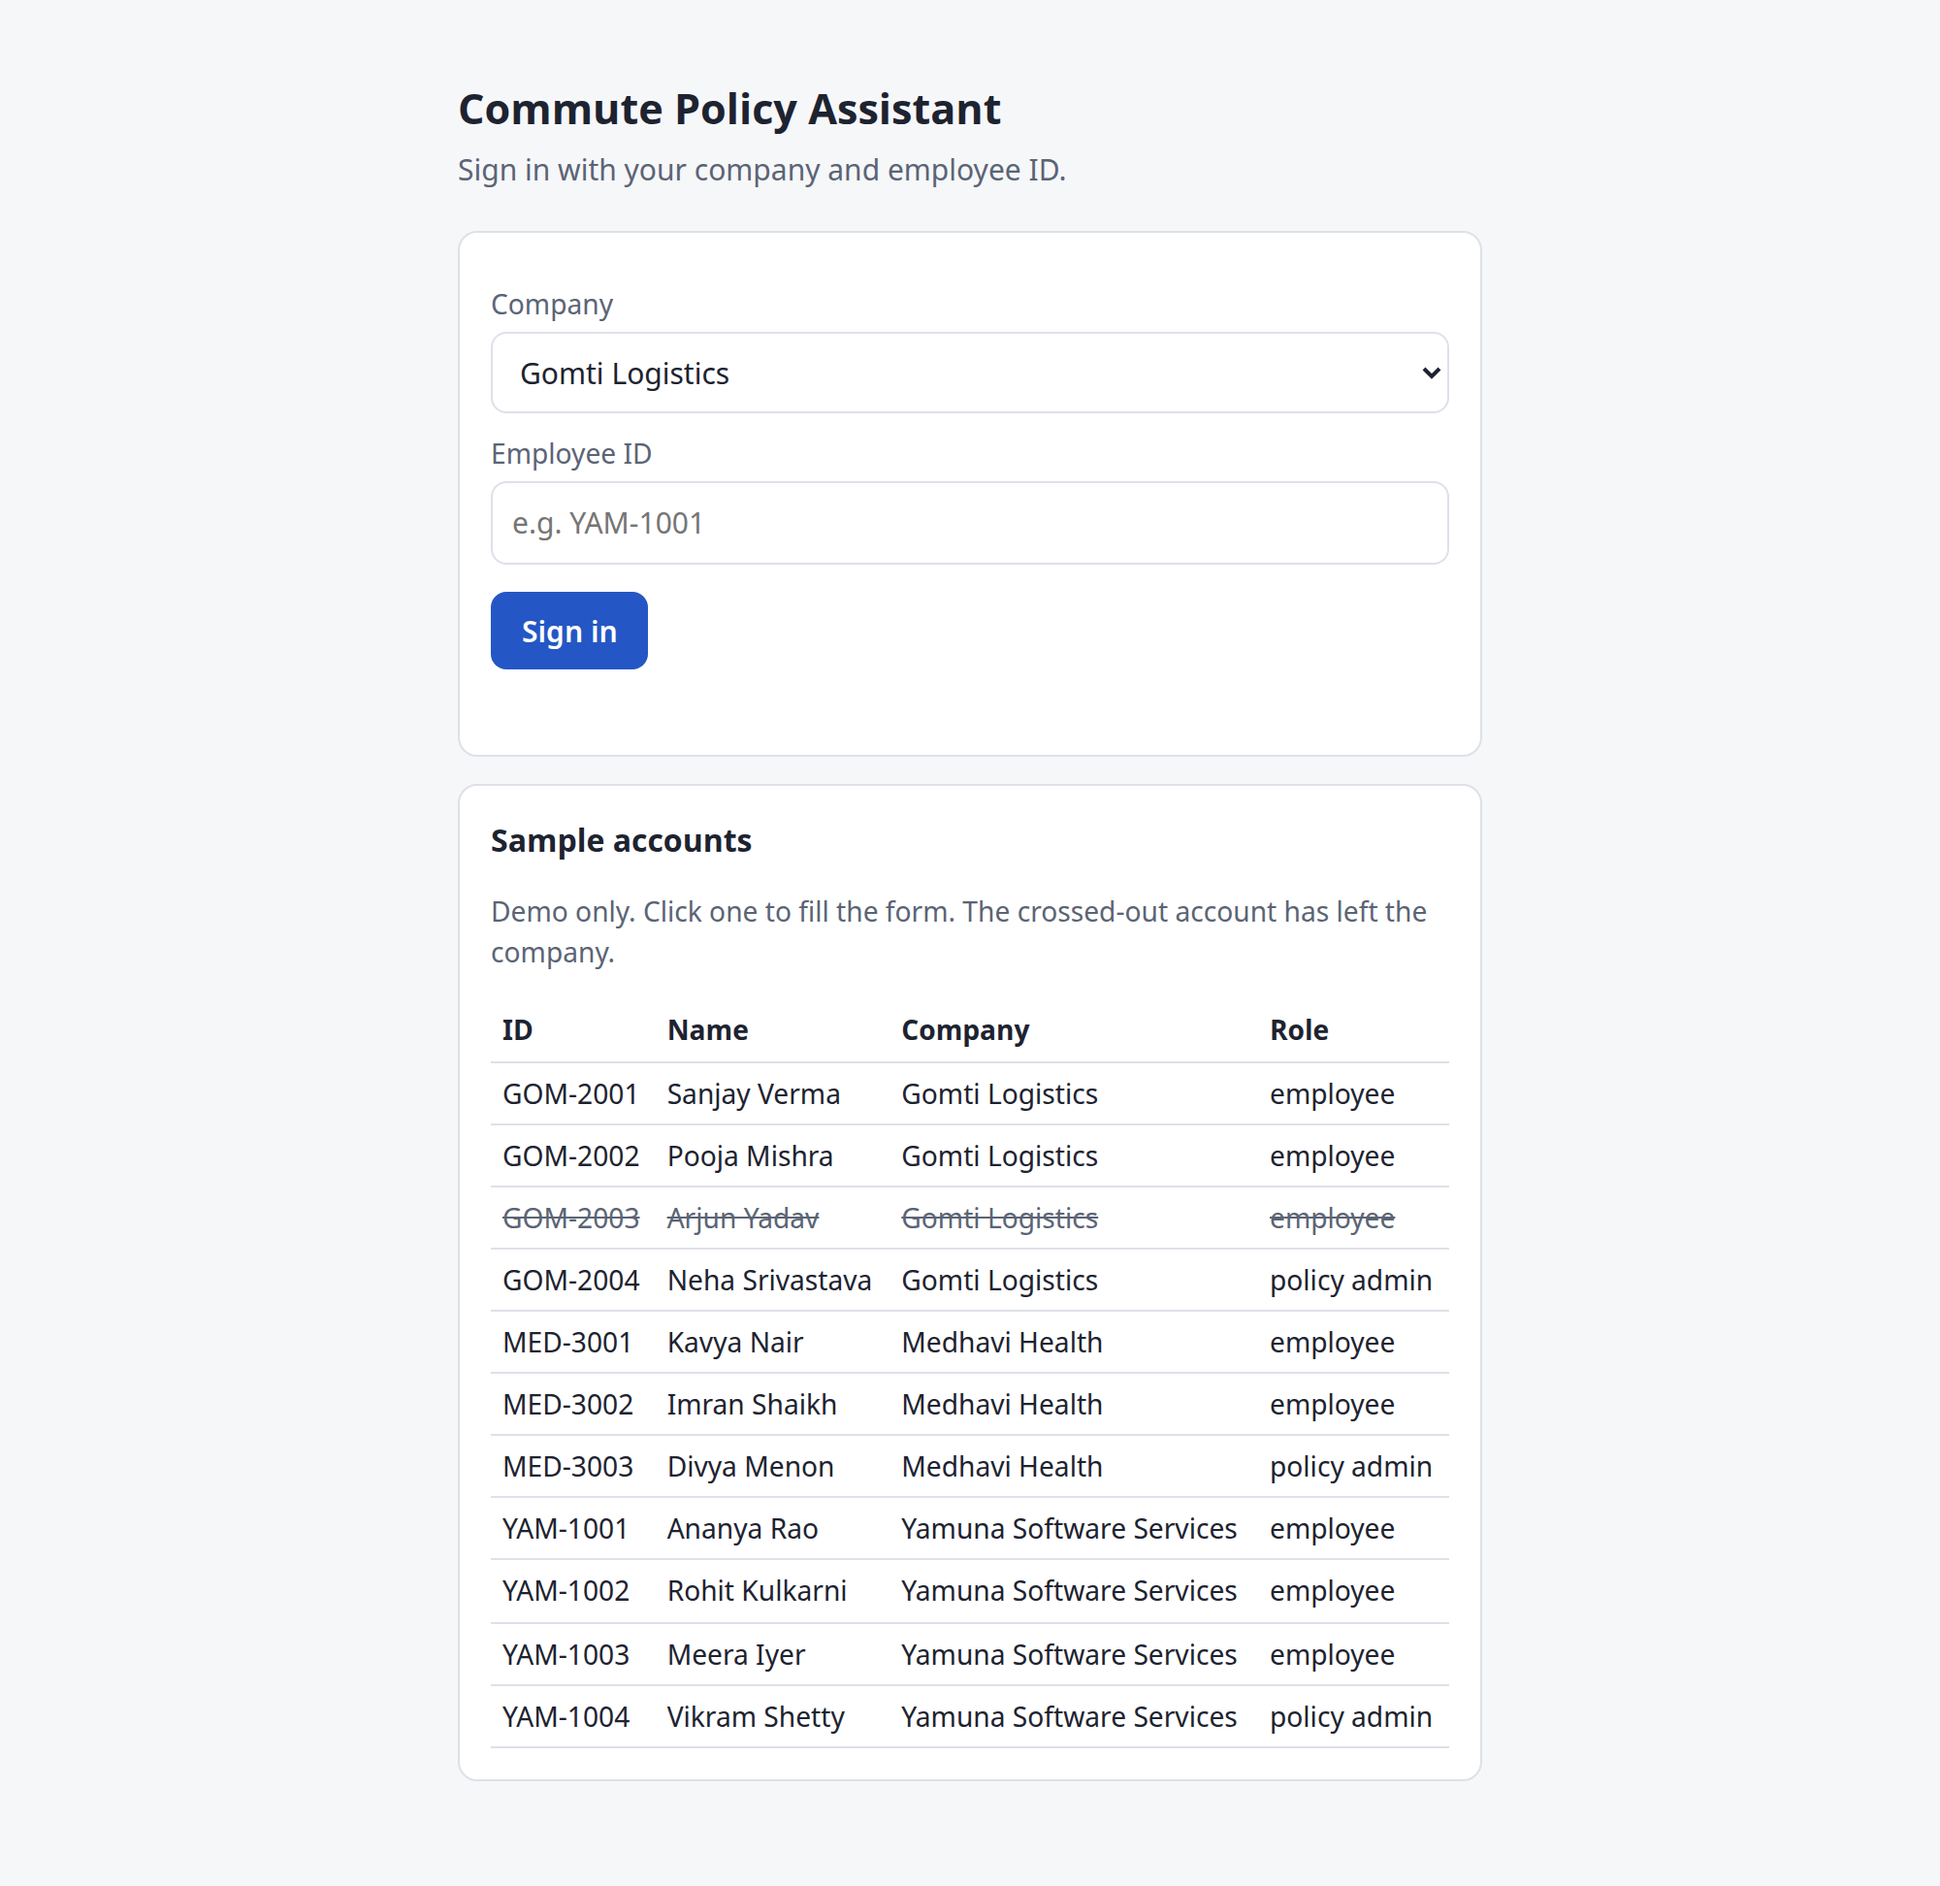
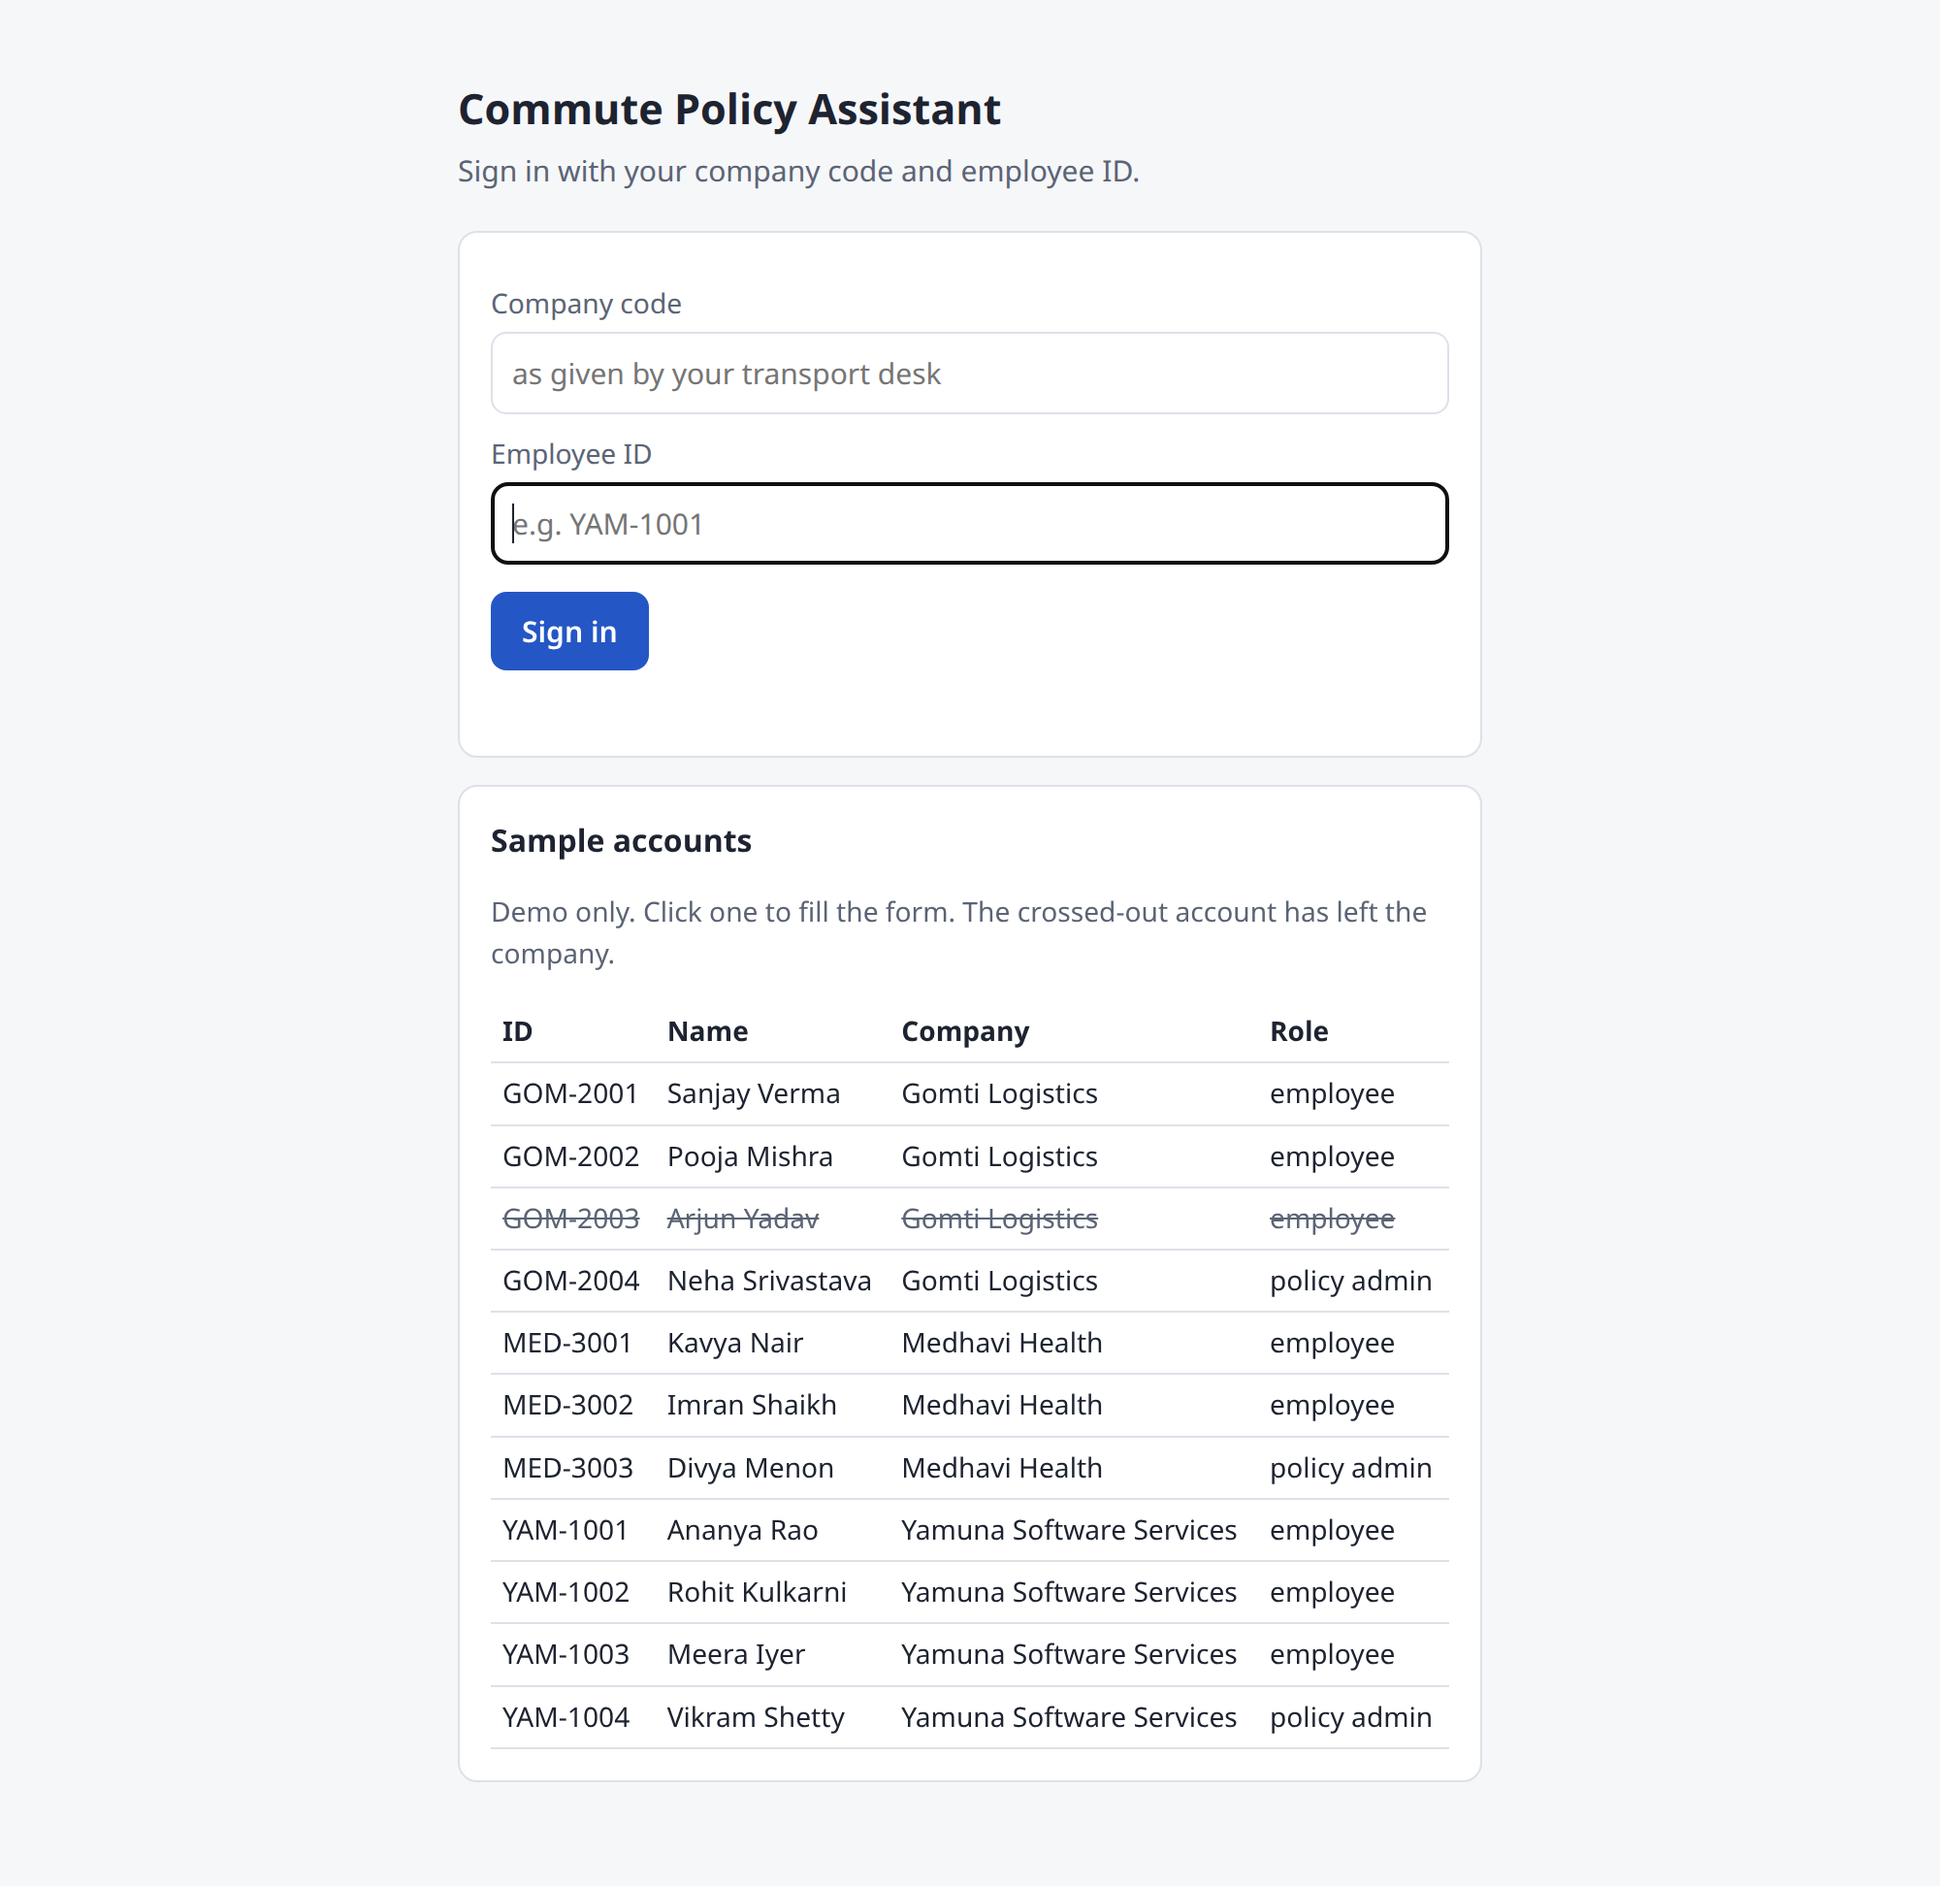
Retake the sign-in screenshot now that the form asks for a company code

diff --git a/README.md b/README.md
@@ -28,7 +28,7 @@ one to fill the form). After signing in you get the chat page, and the page show
 with a copy button) for the API docs at http://localhost:8000/docs: press **Authorize** and paste it.
 
 <p>
-  <img src="docs/images/sign-in.png" alt="The sign-in page: a company and employee ID form, and the table of sample accounts" width="38%">
+  <img src="docs/images/sign-in.png" alt="The sign-in page: a company code and employee ID form, and the table of sample accounts" width="38%">
   &nbsp;
   <img src="docs/images/chat.png" alt="The chat page with three answers: an airport-trip answer citing §6.2 on pages 2–3, a not-covered reply about dogs, and a refusal of a question about another company" width="58%">
 </p>
